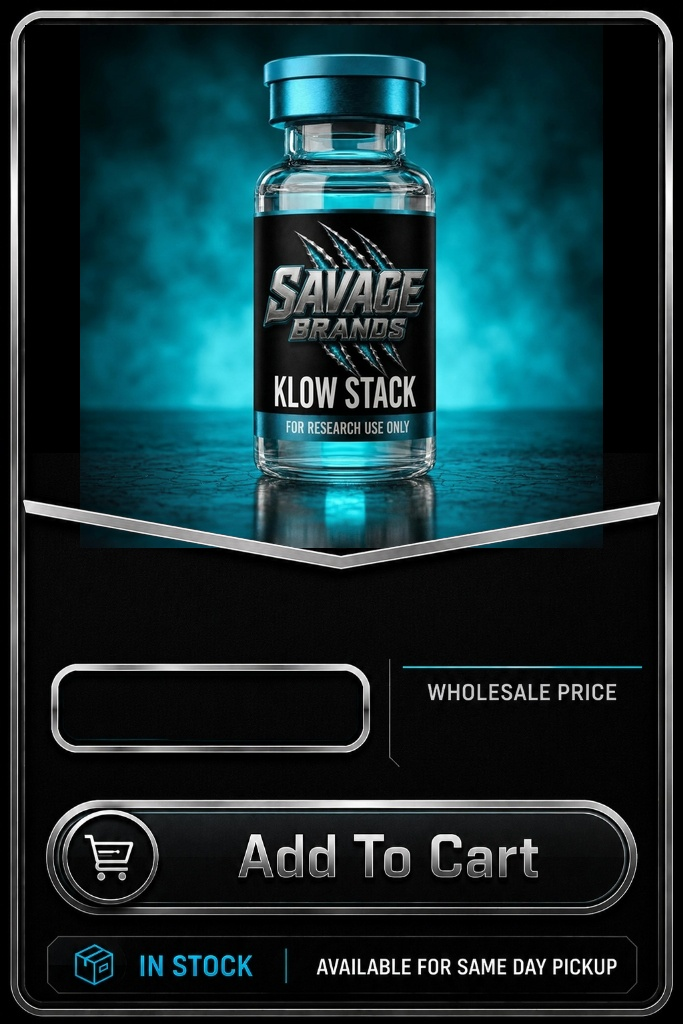
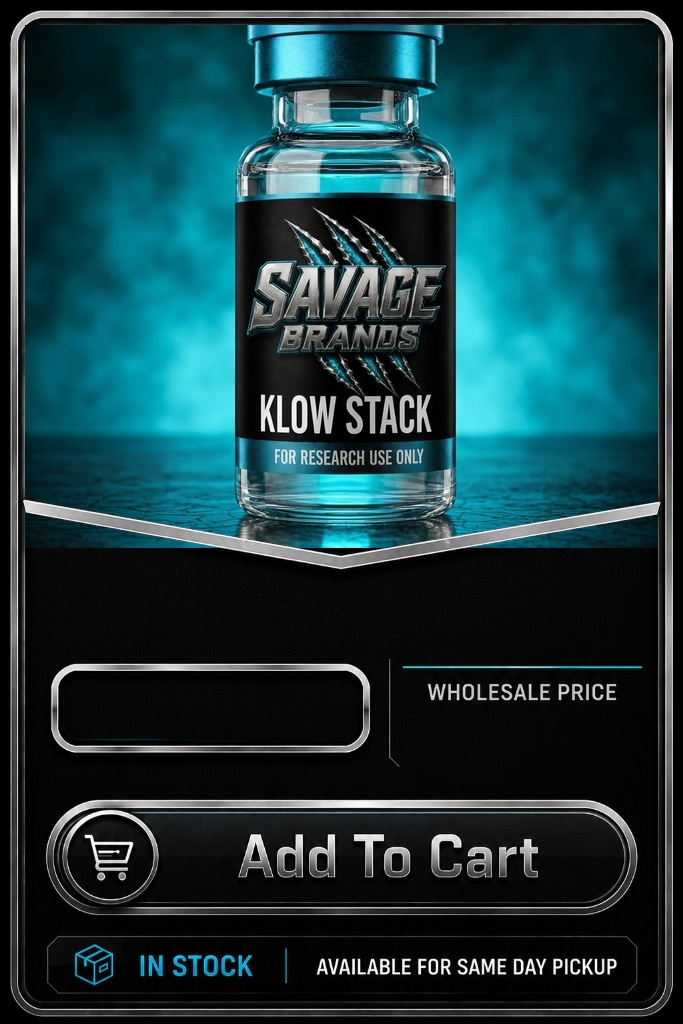
fix(savage-brands): rebuild klow card with cover fill; fix blank vials in detail modal on mobile
- Regenerated klow-card.jpg using make_all_cards.py cover-fill logic (was using
  old contain/letterbox script, causing vial to not fill the frame)
- Fixed detail modal <Image> src to go through getProductImage with allowBrandSpecific=true
  so Savage Brands products always resolve to their 3D vial, never falling back
  to the blank peptide_clear.png on mobile onError

diff --git a/components/AgentStorefrontGrid.tsx b/components/AgentStorefrontGrid.tsx
@@ -3982,14 +3982,15 @@ export default function AgentStorefrontGrid({
               >
                 {/* eslint-disable-next-line @next/next/no-img-element */}
                 <Image
-                  src={detailProduct.imageUrl || '/images/peptide_clear.png'}
+                  src={getProductImage(detailProduct.imageUrl, detailProduct.category || 'Other', detailProduct.name, isSavageBrandsNetwork ? true : !!detailProduct.imageUrl?.includes('/images/savage-brands/'), agentSlug, isSavageBrandsNetwork)}
                   alt={detailProduct.name}
                   fill
                   sizes="(max-width: 768px) 100vw, 50vw"
                   style={{ objectFit: 'contain', objectPosition: 'center', transition: 'transform 0.4s ease' }}
                   onError={(e) => {
                     const target = e.target as HTMLImageElement;
-                    const fallback = getProductImage(null, detailProduct.category || 'Other', detailProduct.name, false, agentSlug, isSavageBrandsNetwork);
+                    // For Savage Brands, use allowBrandSpecific=true so the fallback is a real vial, not a blank clear vial
+                    const fallback = getProductImage(detailProduct.imageUrl, detailProduct.category || 'Other', detailProduct.name, true, agentSlug, isSavageBrandsNetwork);
                     if (target.src !== fallback && !target.src.includes(fallback)) {
                       target.srcset = '';
                       target.src = fallback;
